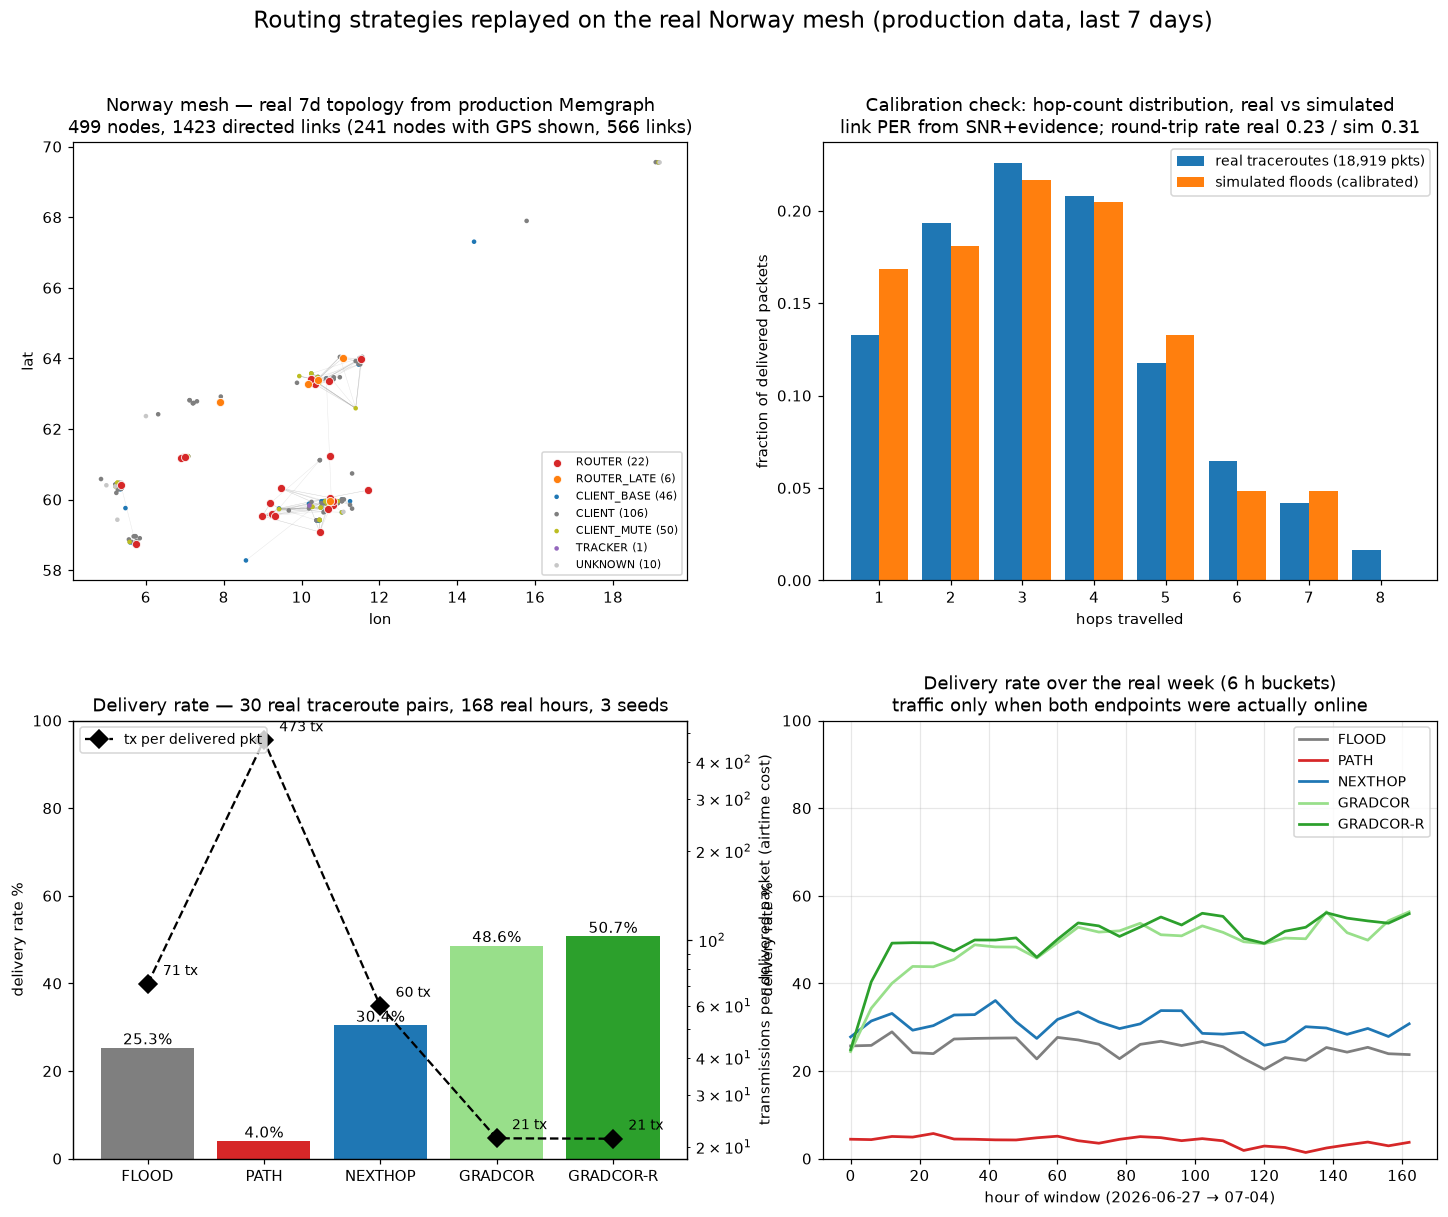
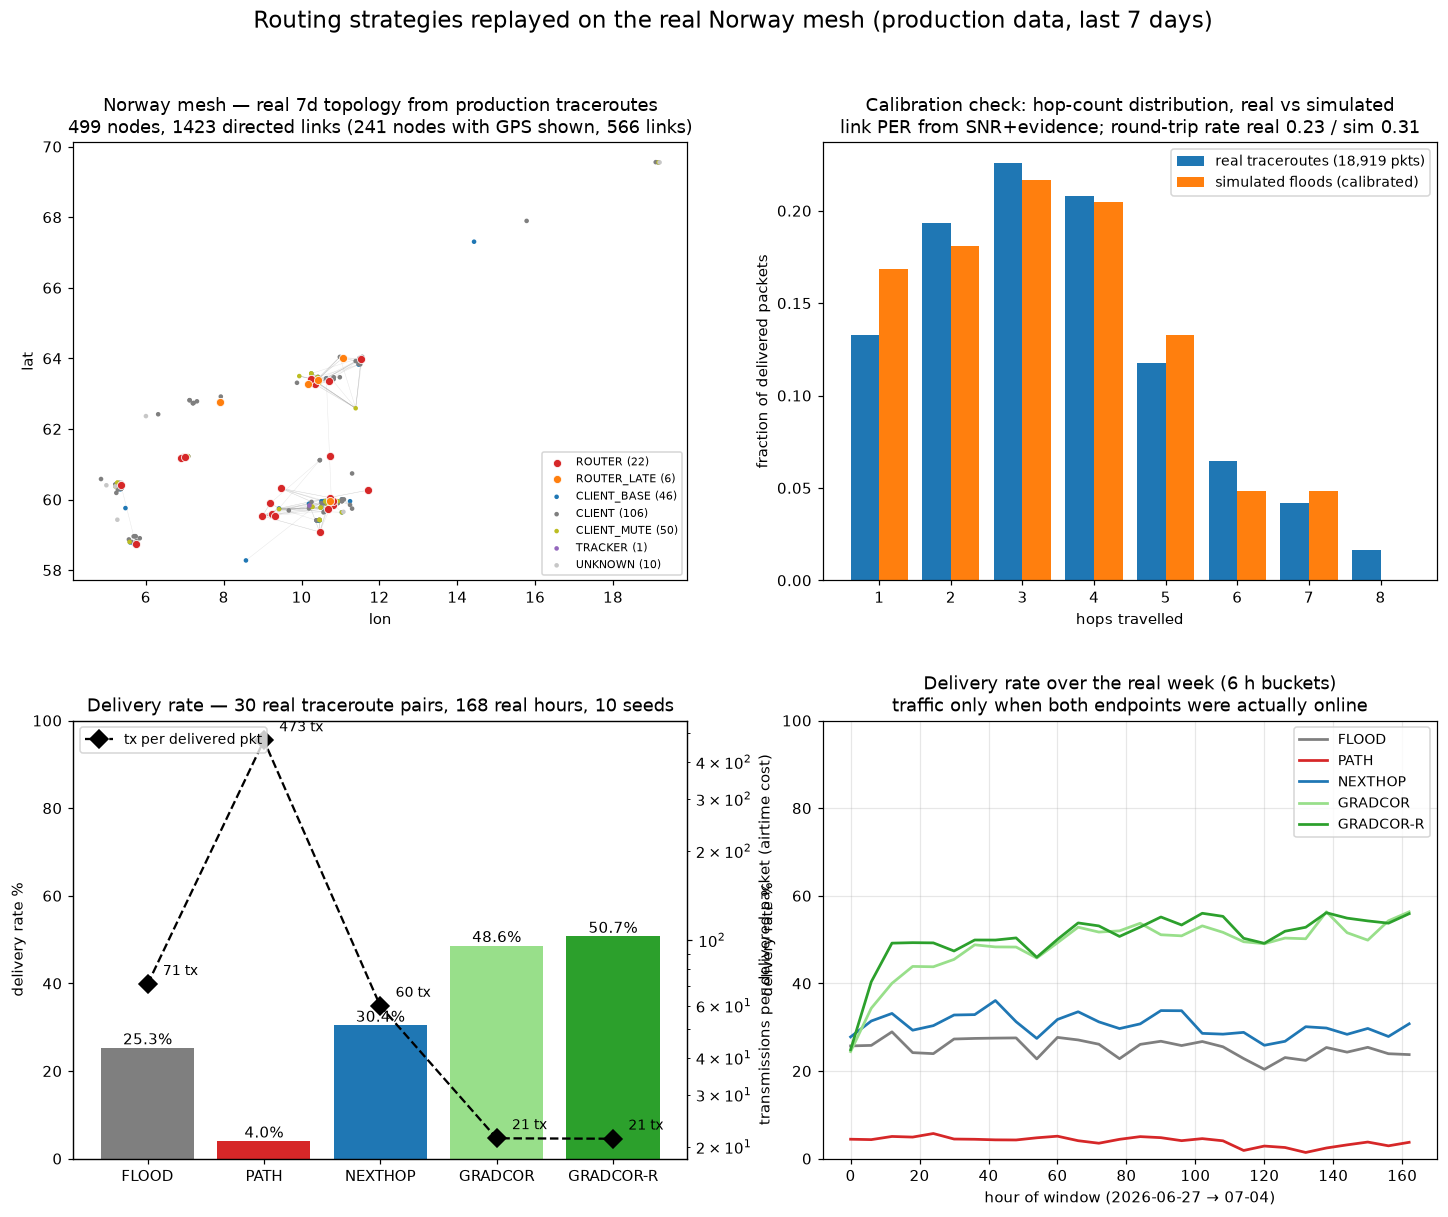
fix(paper): post-review corrections to claims, numbers and disclosures
Scope the termination/loop-freedom claim to the strict corridor (widened
corridors are bounded by packet-ID dedup), disclose the on-demand planting
shortcut with measured oracle-free results as a new threat item, state the
round-trip anchor's denominator mismatch, update section 3.6 and Figure 5
to the 10-seed ablation, correct "five further networks" to four of five,
and reword the per-seed statistics caption (no common random numbers).

Changed region(s): [[0.0622, 0.562, 0.4662, 0.5933], [0.1865, 0.0624, 0.4662, 0.0937], [0.0622, 0.0624, 0.1554, 0.0937]]

diff --git a/paper.html b/paper.html
@@ -67,17 +67,19 @@ firmware 2.6, all traffic &mdash; by managed flooding; 2.6 added cached next hop
 messages, with flood as the fallback; MeshCore source-routes. This paper proposes a fourth
 strategy &mdash;
 <i>gradient-corridor anycast</i> (GradCor): one byte of state per active destination,
-receiver-side anycast forwarding, and <b>no hop limit</b> &mdash; termination and loop freedom
-follow from strict gradient descent, so a packet travels as far as real progress exists and
-stops only at delivery or a certified local minimum. Replayed on the <b>real topology of the
+receiver-side anycast forwarding, and <b>no hop limit</b> &mdash; strict gradient descent gives
+termination and loop freedom while the corridor is tight, per-packet duplicate suppression
+bounds it once widened, so a packet travels as far as real progress exists and stops at
+delivery or a locally-verified dead end. Replayed on the <b>real topology of the
 Norwegian Meshtastic mesh</b> (499 nodes, 1,423 directed links reconstructed from 18,919
 production traceroutes, SNR-calibrated link quality, real duty-cycle presence), the final
 clock-free specification <b>GradCor-R delivers 50.7%</b> of unicast packets at <b>21
 transmissions per delivered packet</b> vs flooding's 25.3% at 71&nbsp;tx &mdash; double the
 delivery at 3.3&times; less airtime &mdash; while a MeshCore-inspired source-routing model
 (deliberately not a MeshCore emulation; &sect;7) collapses to 4.0% under link asymmetry and
-next-hop caching reaches 30.4%. The ranking reproduces on five further production
-networks wherever traceroute evidence suffices. We also identify and fix a production
+next-hop caching reaches 30.4%. The ranking reproduces on four of five further production
+networks; the fifth, with too little traceroute evidence to plant gradients on, degrades to
+flood level and defines a measurable deployment precondition. We also identify and fix a production
 extraction defect (traceroute responses parsed as requests) that had inflated the topology
 graph 2.5&times; and understated link reciprocity (36% &rarr; 57%).
 </div>
@@ -168,12 +170,14 @@ form). <b>(a)</b> Flood and source routing are the two ends of a knowledge spect
 not a point on it but a slider, moved per-hop by direct failure evidence. <b>(b)</b> A node's
 complete view: one byte of state per active destination and five local rules evaluated on every
 decoded frame &mdash; eligibility is decided at the receivers, so one broadcast simultaneously
-probes every potential relay. <b>(c)</b> Forwarding requires the gradient to strictly decrease
-at every hop, so a
+probes every potential relay. <b>(c)</b> In the strict corridor, forwarding requires the
+gradient to strictly decrease at every hop, so a
 packet may legitimately travel 12, 20, or 50 hops &mdash; a finite integer cannot descend forever,
-making termination and loop freedom arithmetic facts rather than counter side-effects; the
-flood's hop limit, by contrast, amputates at a fixed radius regardless of progress. A packet
-stops only at delivery or at a certified local minimum (deterministic drop + route error).</div>
+making termination and loop freedom arithmetic facts rather than counter side-effects; in the
+widened corridors the walk stays bounded by the same per-packet dedup the flood relies on (each
+node forwards a given packet at most once). The flood's hop limit, by contrast, amputates at a
+fixed radius regardless of progress. A packet
+stops only at delivery or at a locally-verified dead end (deterministic drop + route error).</div>
 
 <h3>3.1&nbsp;&nbsp;State: two numbers per destination (one, in the final spec)</h3>
 <p>
@@ -208,7 +212,11 @@ position broadcast can double as a planting flood at zero extra cost). Every nod
 reaches records the hop count at which it first heard it: that <i>is</i> the gradient, age zero.
 One broadcast per node, once, amortised over every subsequent packet toward that destination.
 There is no periodic beaconing; the protocol never spends airtime maintaining state it is not
-using. Figure&nbsp;2 traces the two numbers through their whole life: stamped by the planting
+using. Nor does a gradient-less source need to solicit a plant: it can managed-flood the packet
+exactly as Meshtastic does today, and if that flood delivers, the refresh of &sect;3.5 plants
+the gradient along the proven path for every packet after it &mdash; the replay's on-demand
+planting shortcut and this deployable cold start are compared quantitatively in &sect;8.
+Figure&nbsp;2 traces the two numbers through their whole life: stamped by the planting
 wave (a), sitting as a two-byte table row (b) and re-stamped for free whenever a delivery
 proves what the true working distance is (c).
 </p>
@@ -426,7 +434,8 @@ been refreshed for days, purely as memory hygiene).
 </p>
 <p>
 The drop rule completes the lifecycle. A packet whose holder finds no eligible receiver at any
-corridor level is at a certified local minimum: the node knows nobody it can hear is closer.
+corridor level is at a locally-verified dead end: across the whole escalation ladder &mdash;
+strict, equal, any &mdash; no un-visited receiver decoded the packet at all.
 It drops the packet <i>there, deterministically</i> and can report a route error back toward
 the source (the RERR is specified but not exercised in &sect;6's evaluation). Contrast both
 alternatives: a hop-limit expiry drops at an arbitrary distance-driven point regardless of
@@ -447,11 +456,11 @@ Norway replay (<code>experiment_widening.py</code>; Figure&nbsp;5).
 </p>
 <p>
 Three findings. <b>First, staleness is real</b>: delivery through a 1&ndash;2-hour-old gradient
-runs at 71%, decaying smoothly to 22% at 13&ndash;23 hours with airtime cost rising in step
+runs at 70%, decaying smoothly to 17% at 13&ndash;23 hours with airtime cost rising in step
 (Figure&nbsp;5a) &mdash; a genuine hazard process with no cliff at any particular hour, so no
 specific threshold is &ldquo;correct.&rdquo; <b>Second, the wall-clock threshold barely
 matters</b>: sweeping the widening age from 0 (always widened) to never-widen moves delivery
-only between 48.0% and 52.2% (Figure&nbsp;5b). <b>Third, the clock is redundant</b>: a variant
+only between 47.2% and 50.6% (Figure&nbsp;5b). <b>Third, the clock is redundant</b>: a variant
 that removes wall-clock age from the eligibility rule entirely &mdash; per-hop escalation only,
 strict &rarr; equal &rarr; any &mdash; delivers 50.9% vs the 49.7% baseline over 10 seeds, at
 equal cost; even deleting the replant timer too leaves it at 50.9%. The explanation is that a
@@ -461,7 +470,7 @@ discover anyway. Following the same Trickle logic, reacting to the inconsistency
 scheduling it &mdash; and the &ldquo;two numbers&rdquo; of &sect;3.1 reduce to <b>one</b> (age
 survives only as an optional, insensitive replant hint). We also tested one adaptive variant in
 the opposite direction &mdash; a learned per-destination starting level that skips strict
-attempts a previous packet did not need &mdash; and it is <i>worse</i> (44.2%): skipping the
+attempts a previous packet did not need &mdash; and it is <i>worse</i> (43.1%): skipping the
 cheap strict probes forfeits their frequent wins. The simple deterministic rule survives its
 own ablation; the statistical refinement does not.
 </p>
@@ -491,10 +500,11 @@ or better than every fixed-clock configuration &mdash; both in the isolated abla
 cost).</div>
 
 <figure><img src="fig_ablation.png" style="width:100%"></figure>
-<div class="caption"><b>Figure 5.</b> Clock ablation on the Norway replay. <b>(a)</b> Outcome
-by gradient age at the source (baseline protocol, 3 seeds): usefulness decays smoothly &mdash;
+<div class="caption"><b>Figure 5.</b> Clock ablation on the Norway replay (10 seeds
+throughout). <b>(a)</b> Outcome
+by gradient age at the source (baseline protocol): usefulness decays smoothly &mdash;
 staleness is real but has no characteristic hour. <b>(b)</b> Delivery is nearly flat across the
-entire widening-threshold sweep (blue) and the clock-free reactive variant (green, 10 seeds)
+entire widening-threshold sweep (blue) and the clock-free reactive variant (green)
 matches or beats every fixed setting: the per-hop escalation already measures staleness at the
 moment it matters. One caveat: this network's churn is duty-cycle-dominated with a stable
 router backbone; in a high-mobility mesh, wall-clock aging could recover value.</div>
@@ -803,7 +813,13 @@ viability depends on.</li>
 <p>
 Best fit: x&#8320;&nbsp;=&nbsp;8&nbsp;dB, p<sub>max</sub>&nbsp;=&nbsp;0.8,
 p<sub>min</sub>&nbsp;=&nbsp;0.25, k&nbsp;=&nbsp;10, rev_p&nbsp;=&nbsp;0. Both anchors now fit
-well (Figure&nbsp;10; round trip 0.31 simulated vs 0.23 real). Notably the grid chose
+well (Figure&nbsp;10; round trip 0.31 simulated vs 0.23 real). One denominator caveat: the two
+round-trip rates are not the same statistic &mdash; the real 23% is the share of all observed
+traceroute rows carrying a <code>route_back</code>, while the simulated 31% is the fraction of
+<i>delivered</i> forward floods whose reverse flood also delivered &mdash; so this anchor is
+directional rather than exact. Under either reading the simulator treats reverse paths at least
+as generously as the trace shows, the direction that can only flatter PATH (&sect;8, item 1).
+Notably the grid chose
 rev_p&nbsp;=&nbsp;0 &mdash; with correctly-oriented links, the data is best explained by
 unobserved reverse directions simply <i>not existing</i>, so asymmetry is fully binding in the
 replay. The small remaining round-trip optimism can only <i>overstate</i> PATH (&sect;8).
@@ -848,7 +864,10 @@ nodes never rebroadcast in any protocol.
 </table>
 <div class="caption"><b>Table 2.</b> Fixed simulation parameters (from <code>sim_norway.py</code>).
 The hop limit is set to Meshtastic's protocol ceiling of 7 rather than the shipped default of 3
-&mdash; a choice that favours FLOOD, PATH and NEXTHOP, whose reach it bounds.</div>
+&mdash; a choice that favours FLOOD, PATH and NEXTHOP, whose reach it bounds. Planting floods
+obey the same limit, so the replay never exercises gradient descent beyond 7 hops: the
+unlimited-hop property of &sect;3 is a spec-level guarantee, not something this evaluation
+stresses.</div>
 <p>
 <b>PATH</b> discovers a route with one flood, returns the recorded path hop-by-hop over the
 reverse links (the discovery fails if the reply dies), then source-routes data strictly along
@@ -862,7 +881,13 @@ Figure&nbsp;4); <b>GRADCOR-R</b> implements Algorithm&nbsp;2, the clock-free fin
 specification. Both run in parallel in the head-to-head so the evolution claim of &sect;3.6 is
 tested in the same arena as the competing protocols, not only in isolation. For both, the
 contention race is resolved ideally (lowest gradient always wins, suppression never fails)
-&mdash; a simplification whose consequences are discussed in &sect;8.
+&mdash; a simplification whose consequences are discussed in &sect;8. A second GradCor-specific
+shortcut also needs flagging: a source with no gradient triggers the planting flood from the
+destination <i>at that instant</i>, charged to the triggering packet. Causally, nothing in a
+deployment tells a destination to flood on demand; the deployable cold-start paths are seeding
+by the destination's ordinary periodic broadcasts and the flood-the-packet fallback of
+&sect;3.2. &sect;8, item 7 replaces the shortcut with both deployable forms and measures the
+difference.
 </p>
 
 <h3>5.6&nbsp;&nbsp;Workload and metrics</h3>
@@ -891,8 +916,9 @@ transmissions per packet sent (offered-load cost) and transmissions per packet <
 <div class="caption"><b>Table 3.</b> Aggregate results over 10 seeds, 30 real pairs, 168 real
 hours, with both GradCor forms evaluated in parallel. Absolute percentages are model outputs;
 the ranking and the ratios are the robust findings. Per-seed delivery varies with the sampled
-traffic pairs (s.d. 4.5&ndash;5.4 points), but the <i>paired</i> per-seed differences are
-tight: GradCor-R beats FLOOD on all ten seeds (+19.5 to +29.9 points, mean +25.3, s.d. 3.4),
+traffic pairs (s.d. 4.5&ndash;5.4 points), but the per-seed differences are tight (a seed fixes
+the sampled pairs, presence and world for all protocols alike, though each protocol draws its
+channel outcomes independently): GradCor-R beats FLOOD on all ten seeds (+19.5 to +29.9 points, mean +25.3, s.d. 3.4),
 while R&nbsp;&minus;&nbsp;v1 is +2.1 &plusmn; 3.0 &mdash; a genuine tie within noise, slightly
 ahead, independently confirming the &sect;3.6 ablation in the full head-to-head.</div>
 
@@ -1060,6 +1086,23 @@ paths. This optimism is GradCor-specific. Its consequence is bounded &mdash; a m
 only leaves gradients staler, costing exploration rather than creating a black hole, and the
 v1&harr;R equivalence suggests low sensitivity to exactly how staleness is handled &mdash; but
 the refresh delivery rate belongs on the firmware-prototype checklist alongside contention.</li>
+<li><b>On-demand planting.</b> In the replay, a source with no gradient triggers a planting
+flood from the destination at that instant, charged to the triggering packet
+(&sect;5.5). Causally that is an oracle &mdash; nothing in a deployment tells the destination
+to flood on demand. We measured the shortcut by replacing it with the two deployable
+cold-start mechanisms (<code>experiment_plant.py</code>, 10 seeds): gradient seeding by the
+destination's ordinary periodic broadcasts (3-hourly / 6-hourly while online, NodeInfo-style)
+and, for a source still without a gradient, falling back to managed-flooding the data packet
+itself &mdash; today's Meshtastic behaviour &mdash; whose delivery lets the &sect;3.5 refresh
+plant the path. The result runs <i>against</i> the bias one would fear: the fully
+oracle-free form (no seeding at all, fallback + refresh only) delivers <b>55.0%</b> at
+23.0&nbsp;tx per delivered packet vs the shortcut's 49.3% at 22.2 in the same harness
+(FLOOD: 25.1% at 71.1) &mdash; the fallback flood delivers some cold packets itself, which
+the on-demand plant never does. Broadcast seeding lands in between (51.7&ndash;52.2%,
+23.7&ndash;24.1&nbsp;tx/dlv packet-charged; 26.7&ndash;29.9 if the seeding floods &mdash;
+traffic the mesh sends anyway &mdash; are fully charged to GradCor). The headline tables keep
+the shortcut, which this run shows to be the <i>conservative</i> choice for delivery; no
+conclusion changes.</li>
 <li><b>Independent link trials and no end-to-end retries.</b> Every transmission is an
 independent Bernoulli draw from the fitted link probability; real LoRa links fail in correlated
 bursts (fading, temporary obstructions), which penalises rapid per-hop retries more than
@@ -1082,10 +1125,10 @@ packets of managed flooding at 40% less per-packet airtime and 3.3&times; less a
 delivered packet, while
 source routing was structurally non-viable and next-hop caching was only marginally better than
 flooding. The ordering matches the synthetic study's prediction; the corrected, sparser real
-topology <i>widened</i> the margin. And the ordering is not Norway's: five further production
-networks, independently calibrated, reproduce it wherever traceroute evidence is dense enough
-to plant gradients &mdash; with the one evidence-starved network degrading gracefully to flood
-level rather than failing and defining a measurable eligibility criterion (usable links per
+topology <i>widened</i> the margin. And the ordering is not Norway's: four of the five further
+production networks, independently calibrated, reproduce it &mdash; the fifth, too
+evidence-starved to plant gradients on, degrades gracefully to flood level rather than failing,
+defining a measurable eligibility criterion (usable links per
 node) for deployment. The same replay also simplified the design itself: the
 clock ablation (&sect;3.6) showed the wall-clock thresholds the method started with are
 redundant and the head-to-head (Table&nbsp;3) confirms it &mdash; the specification the paper
@@ -1134,6 +1177,7 @@ network, 2026-06-27&ndash;07-04. Reproduction package
 (data exports and all simulation, experiment and figure code: <code>sim_norway.py</code>,
 <code>experiment_asymmetry.py</code>, <code>experiment_widening.py</code>,
 <code>experiment_multinet.py</code>, <code>experiment_cancellation.py</code>,
+<code>experiment_plant.py</code>,
 <code>fig_*.py</code>; cross-network exports under
 <code>data_networks/</code>) is published alongside this paper.</li>
 <li>P. Levis, T. Clausen, J. Hui, O. Gnawali, J. Ko, &ldquo;The Trickle Algorithm,&rdquo; RFC 6206

diff --git a/fig_summary.py b/fig_summary.py
@@ -143,12 +143,12 @@ ax.text((xs[0] + wall_x) / 2 - 0.3, 0.68,
         "g strictly decreases at every hop:  12 \u2192 11 \u2192 \u2026",
         ha="center", fontsize=9, color=GREEN)
 ax.text(9.98, 0.62,
-        "\u2026 \u2192 1 \u2192 0.  GradCor continues:\na finite integer cannot decrease forever,\nso termination and loop freedom are\narithmetic facts \u2014 no counter needed",
+        "\u2026 \u2192 1 \u2192 0.  GradCor continues:\nstrict descent on a finite integer\nmust terminate; widened corridors stay\nbounded by packet-ID dedup \u2014 no counter needed",
         ha="right", fontsize=8.8, color=GREEN, va="bottom", linespacing=1.3)
 
 ax.text(0.55, 0.10,
         "The packet travels exactly as far as justified progress exists \u2014 12, 20, 50 hops \u2014 and no further:  a node whose neighbourhood\n"
-        "offers no eligible receiver at any corridor level is a certified local minimum \u2192 deterministic drop + route error, never a silent loop.",
+        "offers no eligible receiver at any corridor level is a locally-verified dead end \u2192 deterministic drop + route error, never a silent loop.",
         fontsize=9, va="top", color="#333", linespacing=1.4)
 
 fig.suptitle("GradCor at a glance: route with whatever knowledge exists, locally, for as long as progress is real",

diff --git a/plot_results.py b/plot_results.py
@@ -48,7 +48,7 @@ for role in ROLE_COLORS:
         ax.scatter(xs, ys, s=28 if big else 9, c=ROLE_COLORS[role],
                    label=f"{role} ({len(xs)})", zorder=3 if big else 2,
                    edgecolors="white" if big else "none", linewidths=0.5)
-ax.set_title(f"Norway mesh — real 7d topology from production Memgraph\n"
+ax.set_title(f"Norway mesh — real 7d topology from production traceroutes\n"
              f"{len(nodes)} nodes, {len(links)} directed links "
              f"({len(pos)} nodes with GPS shown, {drawn} links)")
 ax.set_xlabel("lon"); ax.set_ylabel("lat")
@@ -88,7 +88,7 @@ b = ax.bar(x, dr, color=[PROTO_COLORS[p] for p in order])
 ax.bar_label(b, fmt="%.1f%%", fontsize=10)
 ax.set_xticks(list(x)); ax.set_xticklabels(order)
 ax.set_ylabel("delivery rate %"); ax.set_ylim(0, 100)
-ax.set_title("Delivery rate — 30 real traceroute pairs, 168 real hours, 3 seeds")
+ax.set_title("Delivery rate — 30 real traceroute pairs, 168 real hours, 10 seeds")
 ax2 = ax.twinx()
 ax2.plot(x, tpd, "kD--", ms=8, label="tx per delivered pkt")
 for xi, v in zip(x, tpd):